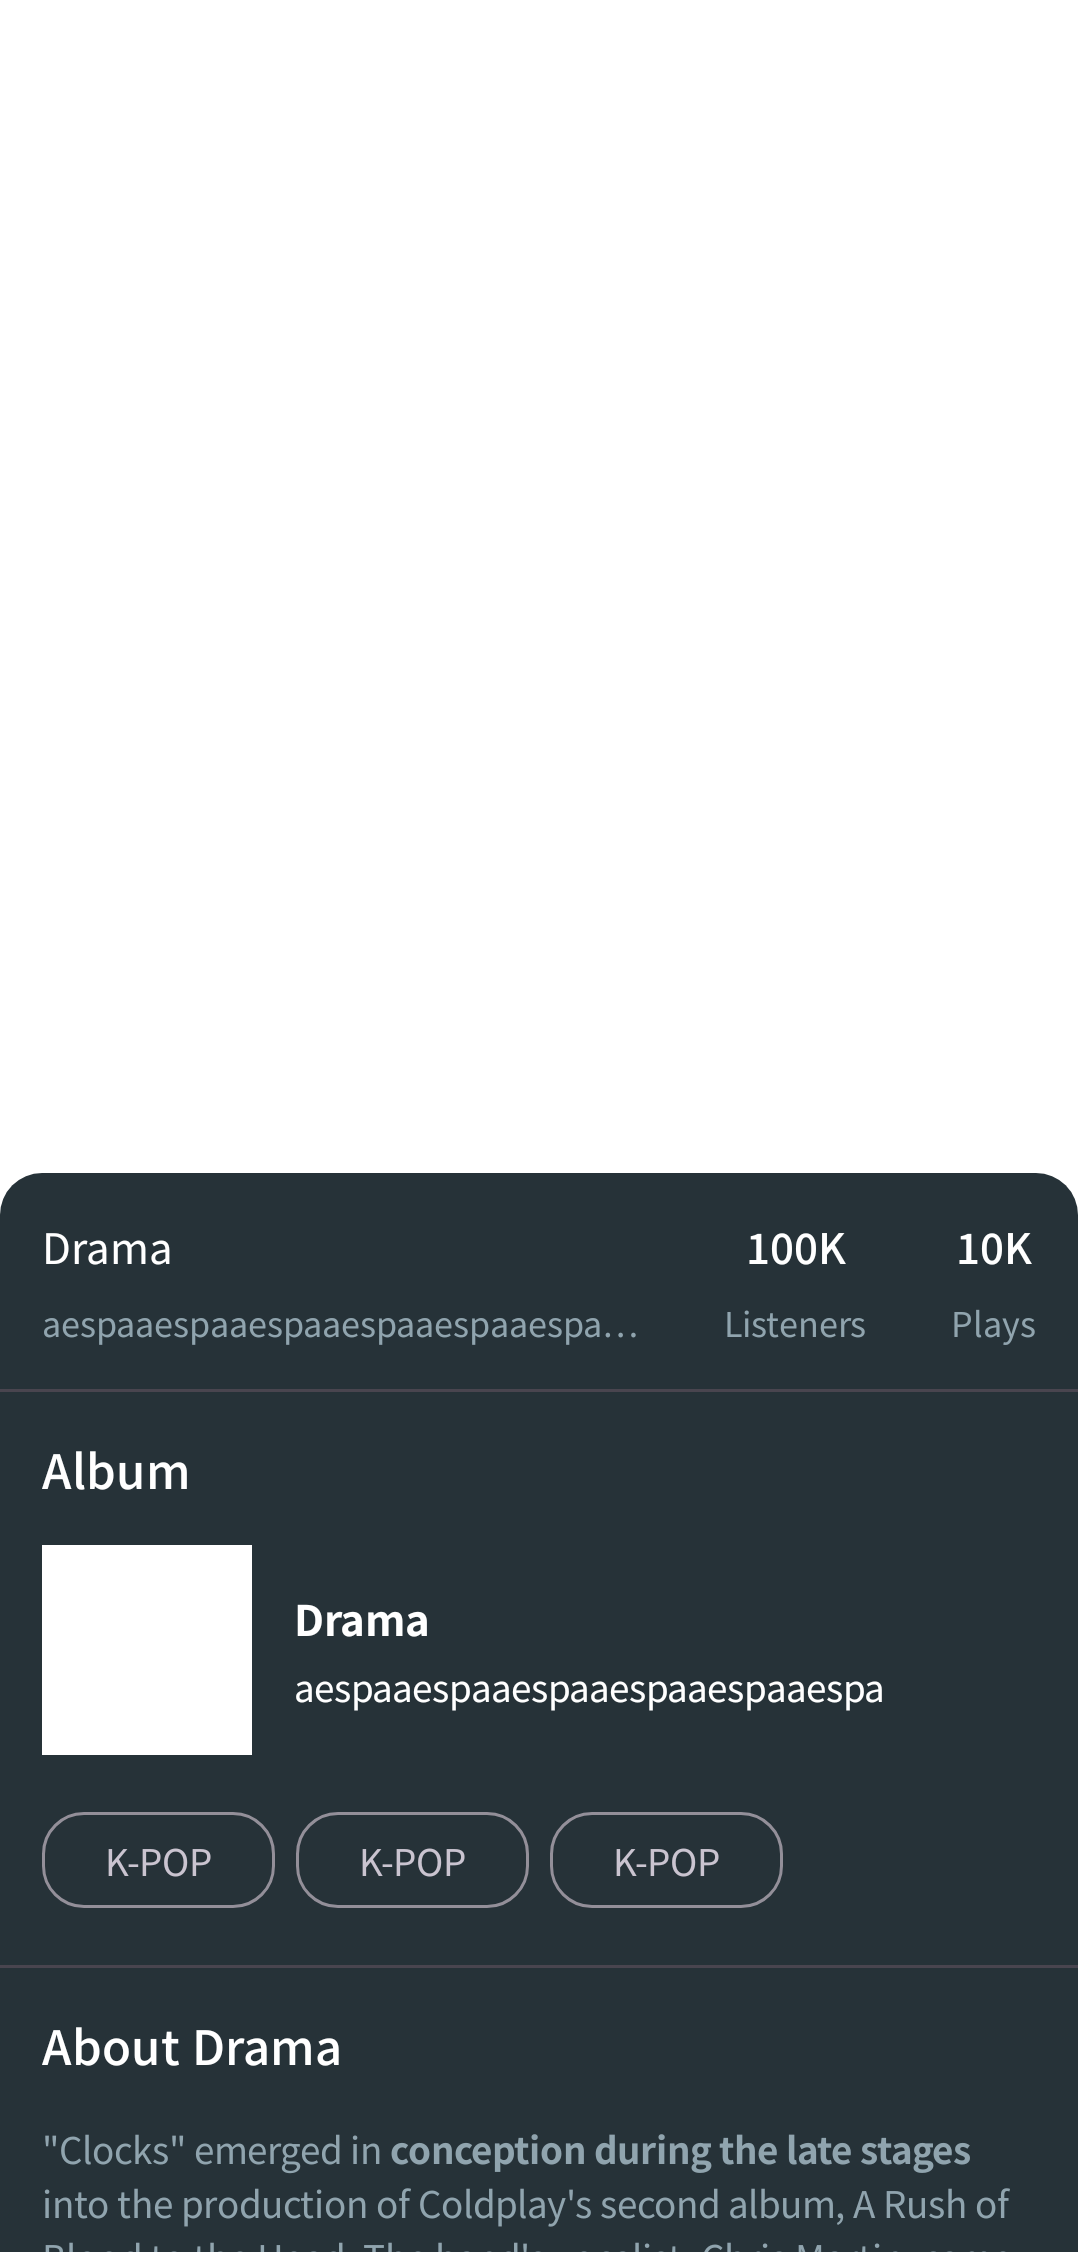
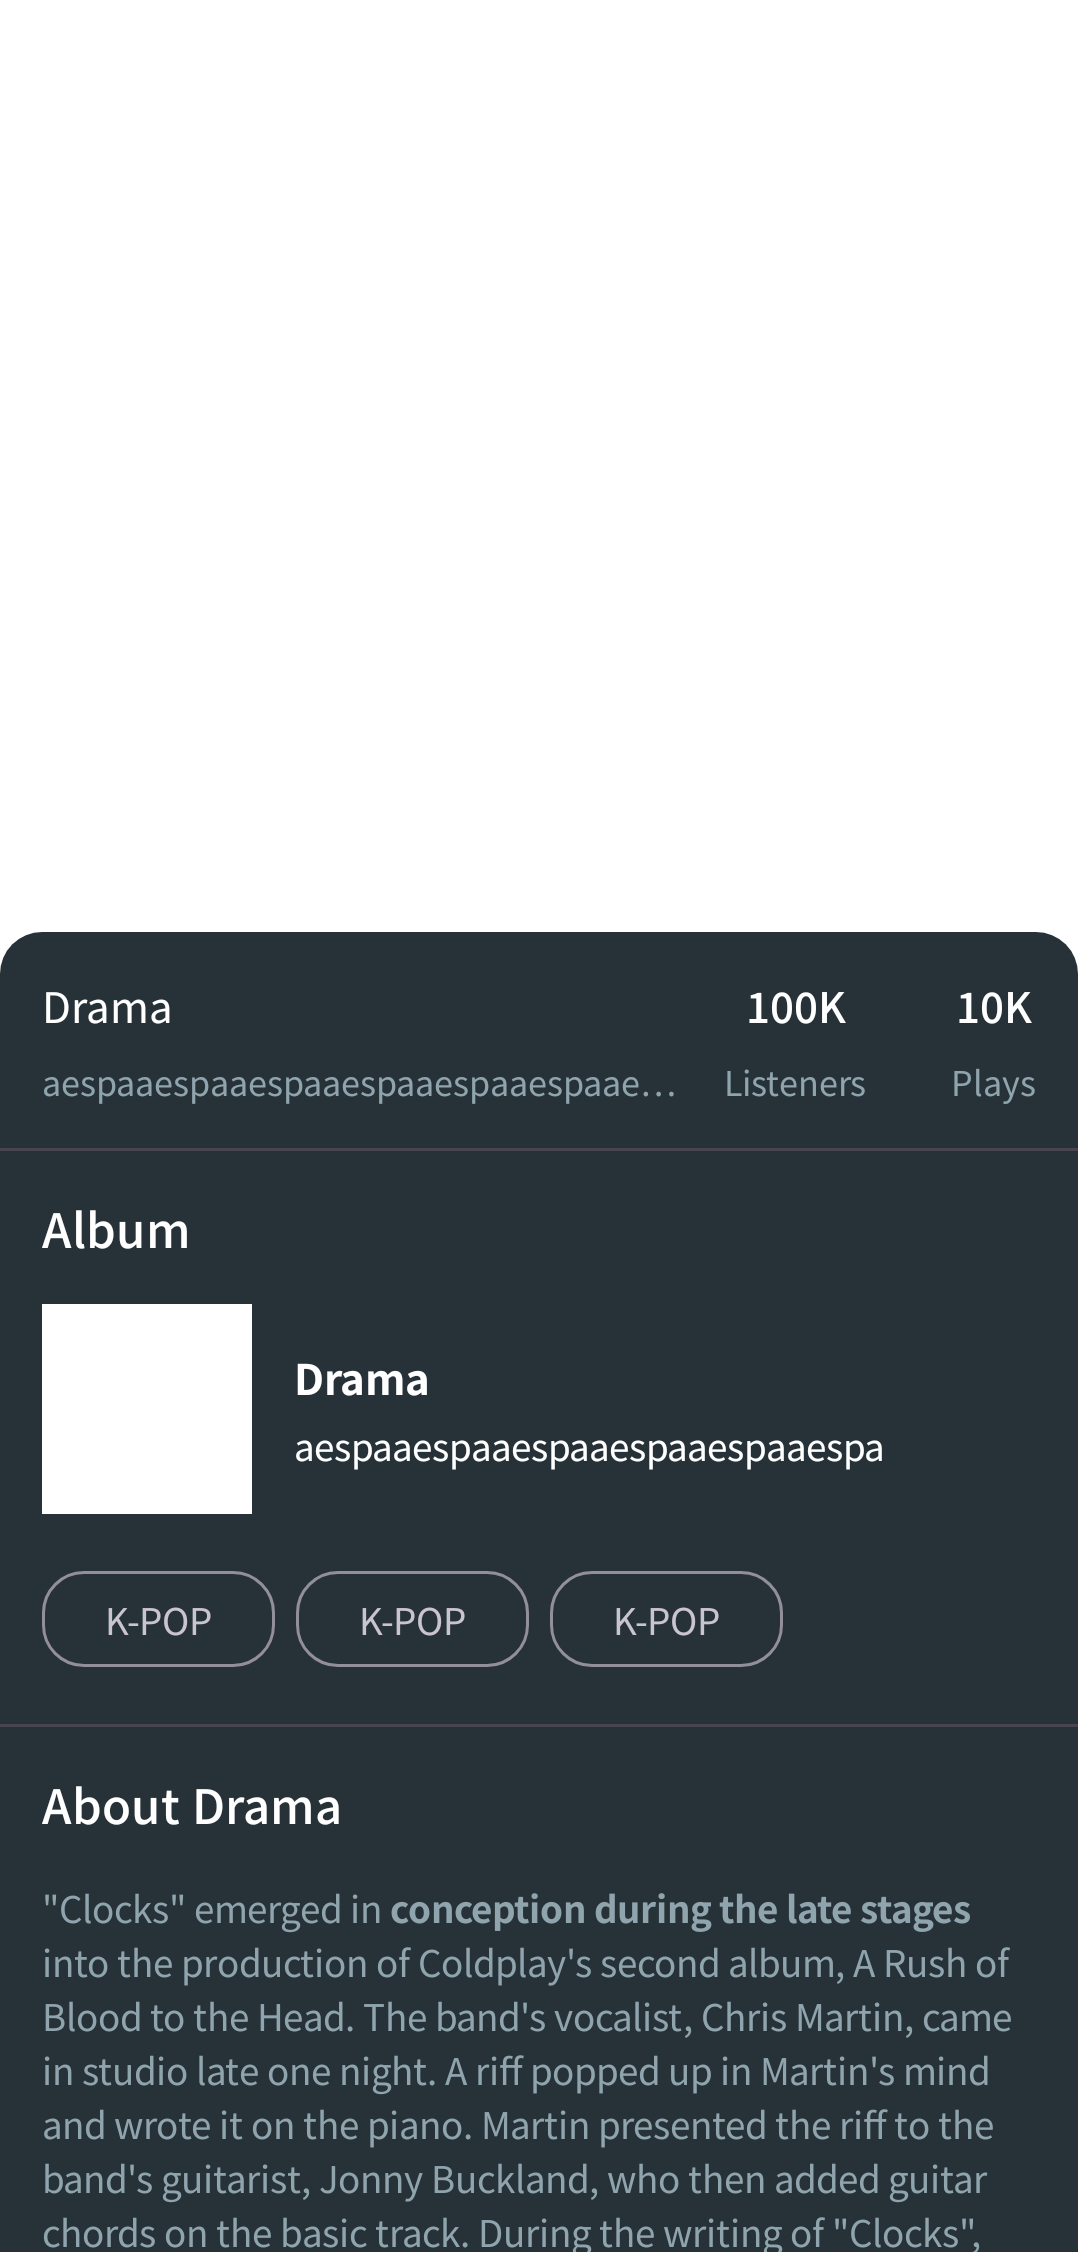
Adjust headerHeight for back layer

Changed region(s): [[0.0, 0.4041, 1.0, 1.0]]

diff --git a/feature/album/src/main/java/com/mataku/scrobscrob/album/ui/screen/AlbumScreen.kt b/feature/album/src/main/java/com/mataku/scrobscrob/album/ui/screen/AlbumScreen.kt
@@ -1,5 +1,7 @@
 package com.mataku.scrobscrob.album.ui.screen
 
+import android.content.res.Configuration
+import android.graphics.drawable.GradientDrawable.Orientation
 import androidx.compose.foundation.background
 import androidx.compose.foundation.layout.Column
 import androidx.compose.foundation.layout.Spacer
@@ -12,6 +14,7 @@ import androidx.compose.foundation.layout.padding
 import androidx.compose.foundation.rememberScrollState
 import androidx.compose.foundation.verticalScroll
 import androidx.compose.material.BackdropScaffold
+import androidx.compose.material.BackdropScaffoldDefaults
 import androidx.compose.material.BackdropValue
 import androidx.compose.material.ExperimentalMaterialApi
 import androidx.compose.material.rememberBackdropScaffoldState
@@ -23,6 +26,7 @@ import androidx.compose.runtime.collectAsState
 import androidx.compose.runtime.getValue
 import androidx.compose.ui.Modifier
 import androidx.compose.ui.graphics.Color
+import androidx.compose.ui.layout.ContentScale
 import androidx.compose.ui.platform.LocalConfiguration
 import androidx.compose.ui.tooling.preview.Preview
 import androidx.compose.ui.unit.dp
@@ -73,11 +77,16 @@ private fun AlbumContent(
   onAlbumLoadMoreTap: (String) -> Unit
 ) {
   val screenWidth = LocalConfiguration.current.screenWidthDp
+  val screenHeight = LocalConfiguration.current.screenHeightDp
   val scaffoldState = rememberBackdropScaffoldState(BackdropValue.Revealed)
 
   BackdropScaffold(
     appBar = {},
-    headerHeight = screenWidth.dp,
+    headerHeight = if (LocalConfiguration.current.orientation == Configuration.ORIENTATION_PORTRAIT) {
+      (screenHeight - screenWidth).dp
+    } else {
+      BackdropScaffoldDefaults.HeaderHeight
+    },
     backLayerContent = {
       val imageData = artworkUrl.ifBlank {
         com.mataku.scrobscrob.ui_common.R.drawable.no_image
@@ -88,7 +97,7 @@ private fun AlbumContent(
           contentDescription = "artwork image",
           modifier = Modifier
             .fillMaxWidth()
-            .aspectRatio(1F)
+            .aspectRatio(1F),
         )
         SunsetImage(
           imageData = imageData,
@@ -98,7 +107,7 @@ private fun AlbumContent(
             .aspectRatio(1F)
             .offset(
               y = (screenWidth / 2).dp
-            )
+            ),
         )
       }
     },

diff --git a/feature/scrobble/src/main/java/com/mataku/scrobscrob/scrobble/ui/screen/TrackScreen.kt b/feature/scrobble/src/main/java/com/mataku/scrobscrob/scrobble/ui/screen/TrackScreen.kt
@@ -1,5 +1,6 @@
 package com.mataku.scrobscrob.scrobble.ui.screen
 
+import android.content.res.Configuration
 import androidx.compose.foundation.background
 import androidx.compose.foundation.layout.Arrangement
 import androidx.compose.foundation.layout.Column
@@ -15,6 +16,7 @@ import androidx.compose.foundation.layout.width
 import androidx.compose.foundation.rememberScrollState
 import androidx.compose.foundation.verticalScroll
 import androidx.compose.material.BackdropScaffold
+import androidx.compose.material.BackdropScaffoldDefaults
 import androidx.compose.material.BackdropValue
 import androidx.compose.material.ExperimentalMaterialApi
 import androidx.compose.material.rememberBackdropScaffoldState
@@ -28,6 +30,7 @@ import androidx.compose.runtime.getValue
 import androidx.compose.ui.Alignment
 import androidx.compose.ui.Modifier
 import androidx.compose.ui.graphics.Color
+import androidx.compose.ui.layout.ContentScale
 import androidx.compose.ui.platform.LocalConfiguration
 import androidx.compose.ui.text.style.TextOverflow
 import androidx.compose.ui.tooling.preview.Preview
@@ -89,10 +92,15 @@ private fun TrackContent(
   onUrlTap: (String) -> Unit
 ) {
   val screenWidth = LocalConfiguration.current.screenWidthDp
+  val screenHeight = LocalConfiguration.current.screenHeightDp
   val scaffoldState = rememberBackdropScaffoldState(BackdropValue.Revealed)
   BackdropScaffold(
     appBar = {},
-    headerHeight = screenWidth.dp,
+    headerHeight = if (LocalConfiguration.current.orientation == Configuration.ORIENTATION_PORTRAIT) {
+      (screenHeight - screenWidth).dp
+    } else {
+      BackdropScaffoldDefaults.HeaderHeight
+    },
     backLayerContent = {
       val imageData = if (artworkUrl == null || artworkUrl.isBlank()) {
         com.mataku.scrobscrob.ui_common.R.drawable.no_image
@@ -105,7 +113,7 @@ private fun TrackContent(
           contentDescription = "artwork image",
           modifier = Modifier
             .fillMaxWidth()
-            .aspectRatio(1F)
+            .aspectRatio(1F),
         )
         SunsetImage(
           imageData = imageData,
@@ -115,7 +123,7 @@ private fun TrackContent(
             .aspectRatio(1F)
             .offset(
               y = (screenWidth / 2).dp
-            )
+            ),
         )
       }
     },

diff --git a/feature/artist/src/main/java/com/mataku/scrobscrob/artist/ui/screen/ArtistScreen.kt b/feature/artist/src/main/java/com/mataku/scrobscrob/artist/ui/screen/ArtistScreen.kt
@@ -1,5 +1,6 @@
 package com.mataku.scrobscrob.artist.ui.screen
 
+import android.content.res.Configuration
 import androidx.compose.foundation.background
 import androidx.compose.foundation.layout.Column
 import androidx.compose.foundation.layout.aspectRatio
@@ -10,6 +11,7 @@ import androidx.compose.foundation.layout.padding
 import androidx.compose.foundation.rememberScrollState
 import androidx.compose.foundation.verticalScroll
 import androidx.compose.material.BackdropScaffold
+import androidx.compose.material.BackdropScaffoldDefaults
 import androidx.compose.material.BackdropValue
 import androidx.compose.material.ExperimentalMaterialApi
 import androidx.compose.material.rememberBackdropScaffoldState
@@ -62,11 +64,16 @@ private fun ArtistContent(
   onArtistLoadMoreTap: (String) -> Unit
 ) {
   val screenWidth = LocalConfiguration.current.screenWidthDp
+  val screenHeight = LocalConfiguration.current.screenHeightDp
   val scaffoldState = rememberBackdropScaffoldState(BackdropValue.Revealed)
 
   BackdropScaffold(
     appBar = {},
-    headerHeight = screenWidth.dp,
+    headerHeight = if (LocalConfiguration.current.orientation == Configuration.ORIENTATION_PORTRAIT) {
+      (screenHeight - screenWidth).dp
+    } else {
+      BackdropScaffoldDefaults.HeaderHeight
+    },
     backLayerContent = {
       val imageData = artworkUrl.ifBlank {
         com.mataku.scrobscrob.ui_common.R.drawable.no_image
